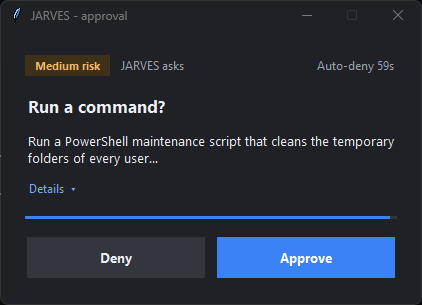
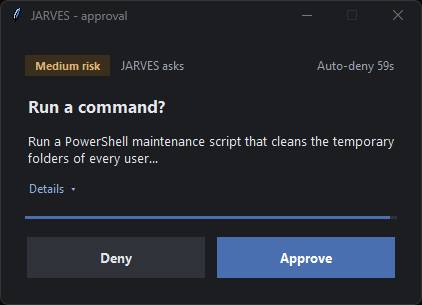
approval popup: calmer, darker, lower-saturation palette in both themes; AA contrast test (#17)

Changed region(s): [[0.4929, 0.7672, 0.955, 0.9148], [0.0616, 0.7082, 0.9242, 0.7377]]

diff --git a/core/src/jarves/approval_popup.py b/core/src/jarves/approval_popup.py
@@ -85,18 +85,18 @@ STRINGS = {
 
 # flat palettes; chips are a tinted background with a strong text colour (calm, readable in both themes)
 PALETTES = {
-    "light": {"bg": "#ffffff", "surface": "#f3f4f6", "text": "#1b1f24", "muted": "#5f6b7a", "border": "#d8dce2",
-              "primary": "#2563eb", "primary_hover": "#1d4ed8", "primary_off": "#b8c8ee", "on_primary": "#ffffff",
-              "danger": "#c62828", "danger_hover": "#a91f1f", "danger_off": "#efc0c0",
-              "secondary": "#eceef2", "secondary_hover": "#dfe2e8", "on_secondary": "#1b1f24",
-              "focus": "#1b1f24", "track": "#e6e9ee", "link": "#2563eb",
-              "chip": {"low": ("#e3f4e8", "#1d6b35"), "medium": ("#fdf0dc", "#8a5300"), "high": ("#fde4e4", "#b42318")}},
-    "dark": {"bg": "#1f2126", "surface": "#2a2d33", "text": "#eceff3", "muted": "#9aa3ae", "border": "#3a3e46",
-             "primary": "#3b82f6", "primary_hover": "#5b96f8", "primary_off": "#2b3d5f", "on_primary": "#ffffff",
-             "danger": "#e5484d", "danger_hover": "#ec6a6e", "danger_off": "#5a2a2c",
-             "secondary": "#33363d", "secondary_hover": "#3e424a", "on_secondary": "#eceff3",
-             "focus": "#eceff3", "track": "#33363d", "link": "#7aa7ff",
-             "chip": {"low": ("#1d3a27", "#7fd49a"), "medium": ("#3f3018", "#f2b867"), "high": ("#45201f", "#ff8f87")}},
+    "light": {"bg": "#e9ebee", "surface": "#dcdfe4", "text": "#1f2329", "muted": "#4c5663", "border": "#bfc4cc",
+              "primary": "#3c5a99", "primary_hover": "#324d87", "primary_off": "#a9b6d0", "on_primary": "#ffffff",
+              "danger": "#8f3535", "danger_hover": "#7a2c2c", "danger_off": "#d3b3b3",
+              "secondary": "#dadde2", "secondary_hover": "#cdd1d7", "on_secondary": "#1f2329",
+              "focus": "#1f2329", "track": "#d3d7dd", "link": "#2f4f8f",
+              "chip": {"low": ("#d5e3d9", "#2a5c3a"), "medium": ("#eadfc9", "#6e4a12"), "high": ("#ebd8d8", "#8c3030")}},
+    "dark": {"bg": "#1b1d21", "surface": "#25282d", "text": "#e4e7eb", "muted": "#9aa2ad", "border": "#34383f",
+             "primary": "#4a6fb0", "primary_hover": "#41639f", "primary_off": "#2a3850", "on_primary": "#ffffff",
+             "danger": "#b04a4e", "danger_hover": "#9e4044", "danger_off": "#4a2a2c",
+             "secondary": "#2f3238", "secondary_hover": "#3a3e45", "on_secondary": "#e4e7eb",
+             "focus": "#e4e7eb", "track": "#2f3238", "link": "#8db0e8",
+             "chip": {"low": ("#22362a", "#8fc7a0"), "medium": ("#3a2f1c", "#e0b574"), "high": ("#3e2423", "#efa19b")}},
 }
 _RTL = re.compile(r"[֐-ࣿיִ-﷿ﹰ-]")
 
@@ -405,7 +405,7 @@ def build(req: dict, out: Path, test_invoke: str | None = None, *, theme: str | 
     if code:
         cbox = tk.Frame(card, bg=P["bg"])
         cbox.pack(side="bottom", fill="x", pady=(px(16), 0))
-        tk.Label(cbox, text=S["code"].format(code=code), font=f_small, bg=P["bg"], fg=P["danger"], anchor=anchor,
+        tk.Label(cbox, text=S["code"].format(code=code), font=f_small, bg=P["bg"], fg=P["chip"]["high"][1], anchor=anchor,
                  justify=justify, wraplength=inner).pack(fill="x")
         entry = tk.Entry(cbox, textvariable=typed, width=8, justify="center", font=f_code, relief="flat",
                          bg=P["surface"], fg=P["text"], insertbackground=P["text"], highlightthickness=px(2),

diff --git a/core/tests/test_approval_popup_ux.py b/core/tests/test_approval_popup_ux.py
@@ -175,3 +175,35 @@ def test_no_code_field_for_normal_requests_and_approve_waits_for_the_delay(tmp_p
         root.destroy()
         raise
     assert json.loads(out.read_text(encoding="utf-8"))["decision"] == "deny"
+
+
+# ---------------------------------------------------------------------- calm palette: WCAG AA contrast
+def _lum(h):
+    h = h.lstrip("#")
+    c = [int(h[i:i + 2], 16) / 255 for i in (0, 2, 4)]
+    c = [x / 12.92 if x <= 0.03928 else ((x + 0.055) / 1.055) ** 2.4 for x in c]
+    return 0.2126 * c[0] + 0.7152 * c[1] + 0.0722 * c[2]
+
+
+def _ratio(a, b):
+    hi, lo = sorted((_lum(a), _lum(b)), reverse=True)
+    return (hi + 0.05) / (lo + 0.05)
+
+
+@pytest.mark.parametrize("theme", ["light", "dark"])
+@pytest.mark.parametrize("risk", ["low", "medium", "high"])
+def test_palette_contrast_is_wcag_aa(theme, risk):
+    P = ap.PALETTES[theme]
+    cb, cf = P["chip"][risk]
+    assert _ratio(cf, cb) >= 4.5, "risk chip"
+    for fg in ("text", "muted", "link"):
+        assert _ratio(P[fg], P["bg"]) >= 4.5, fg
+    assert _ratio(P["text"], P["surface"]) >= 4.5 and _ratio(P["muted"], P["surface"]) >= 4.5
+    prim = "danger" if risk == "high" else "primary"
+    for state in (prim, prim + "_hover"):
+        assert _ratio(P["on_primary"], P[state]) >= 4.5, state
+    for state in ("secondary", "secondary_hover"):
+        assert _ratio(P["on_secondary"], P[state]) >= 4.5, state
+    assert _ratio(P["focus"], P["bg"]) >= 3.0
+    if risk == "high":
+        assert _ratio(P["chip"]["high"][1], P["bg"]) >= 4.5  # the typed-code hint text
